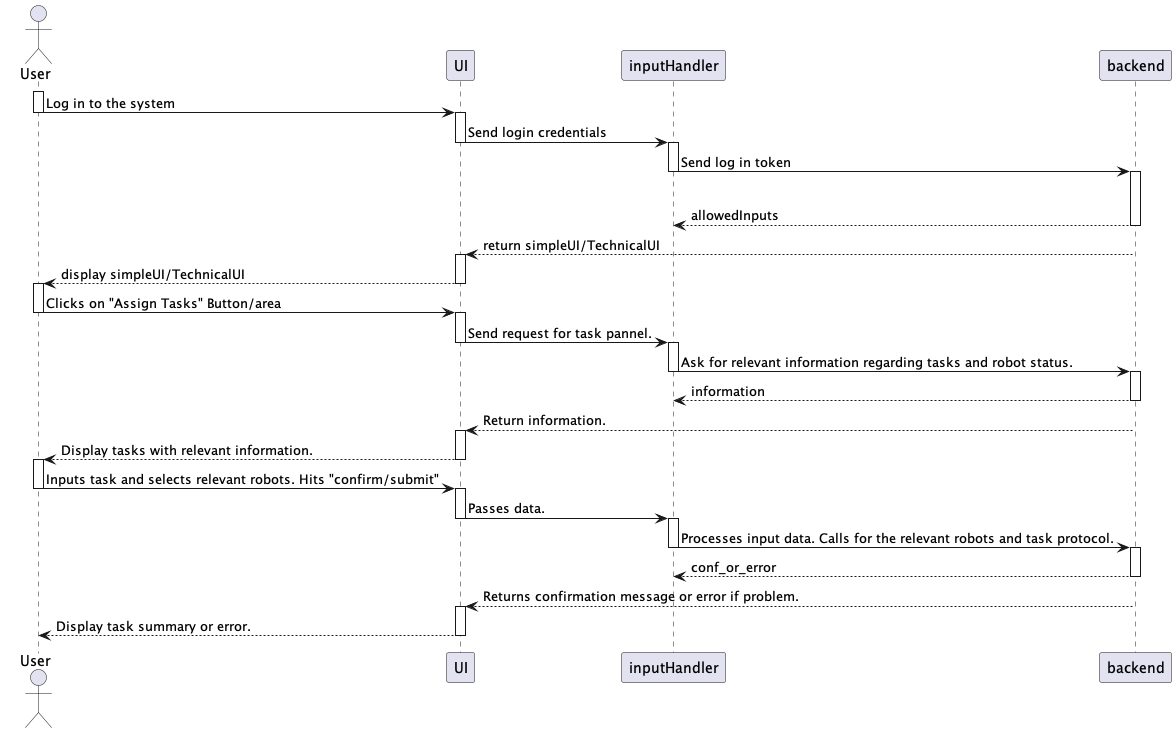
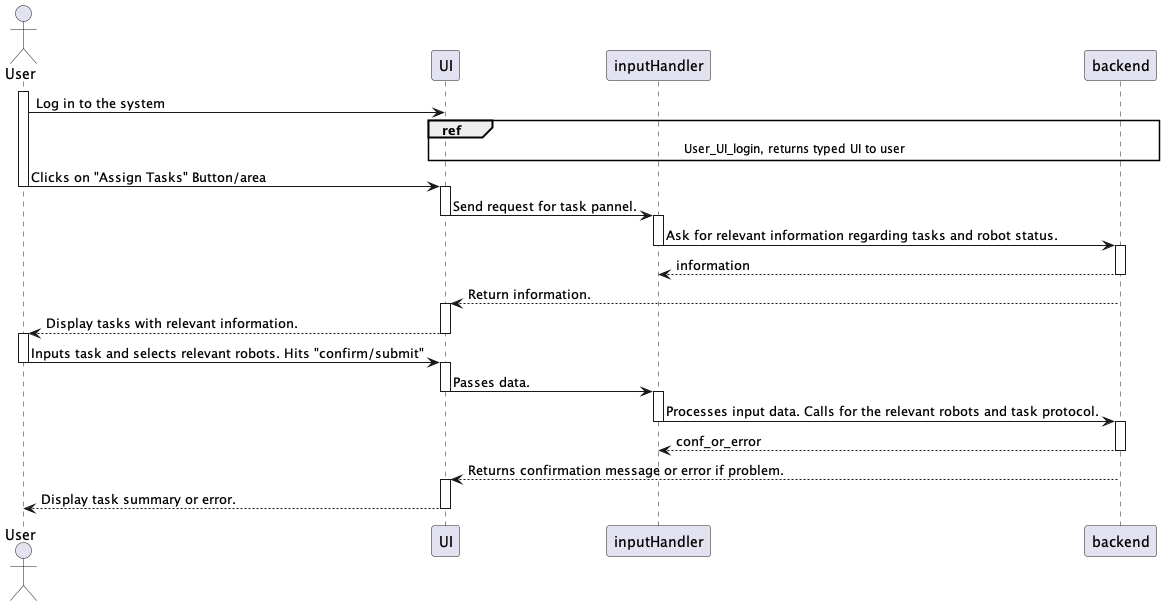
added sequence1 fix assigned to me (refs in the sequence diagrams

diff --git a/docs/design/Sequence/SEQUENCE.md b/docs/design/Sequence/SEQUENCE.md
@@ -2,6 +2,7 @@
 
 ## User to UI:
 Each diagram describes an interaction between the User and the UI when accomplishing the following tasks. The Diagrams are broken up into those which can be done with both the technical view and simple view, and those that must be done with the technical view. 
+- We also design a 'helper' UML diagram to describe how the repetitive task of logging in to the system is handled. 
  ### Assigning a task
  ![Entity Sequence Diagram](./User_To_UI/SV_Assign_Tasks.png)
 
@@ -16,6 +17,11 @@ Each diagram describes an interaction between the User and the UI when accomplis
 
  ### View/Edit the floor map
  ![Entity Sequence Diagram](./User_To_UI/TV_View_Edit_Map.png)
+
+ ### Loggin in 
+ ! [Entity Sequence Diagram](./User_To_UI/User_UI_login.png)
+
+
 
 
 ## Entity:
